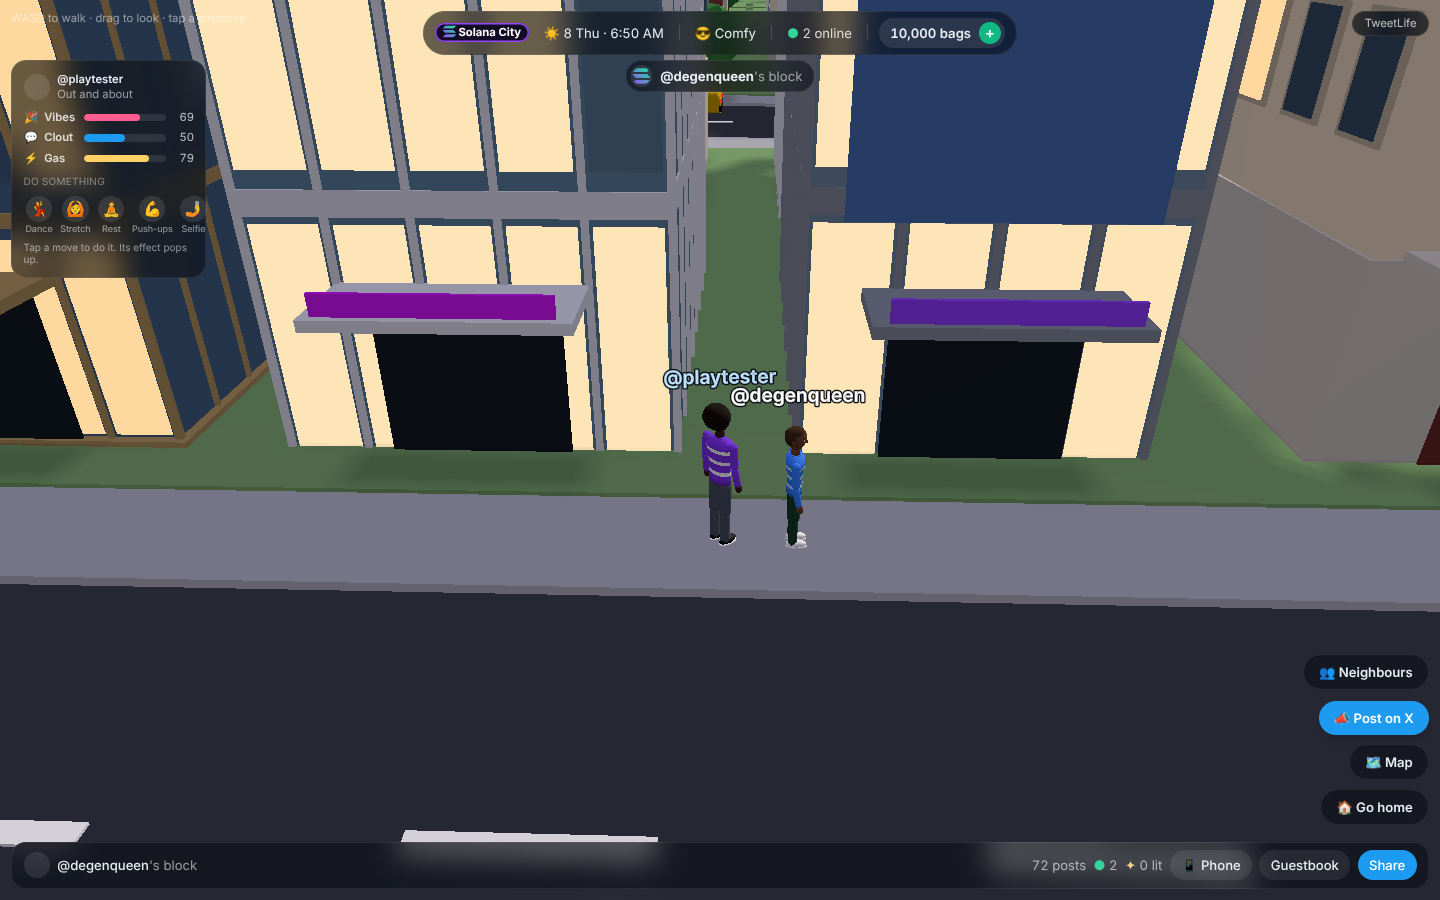
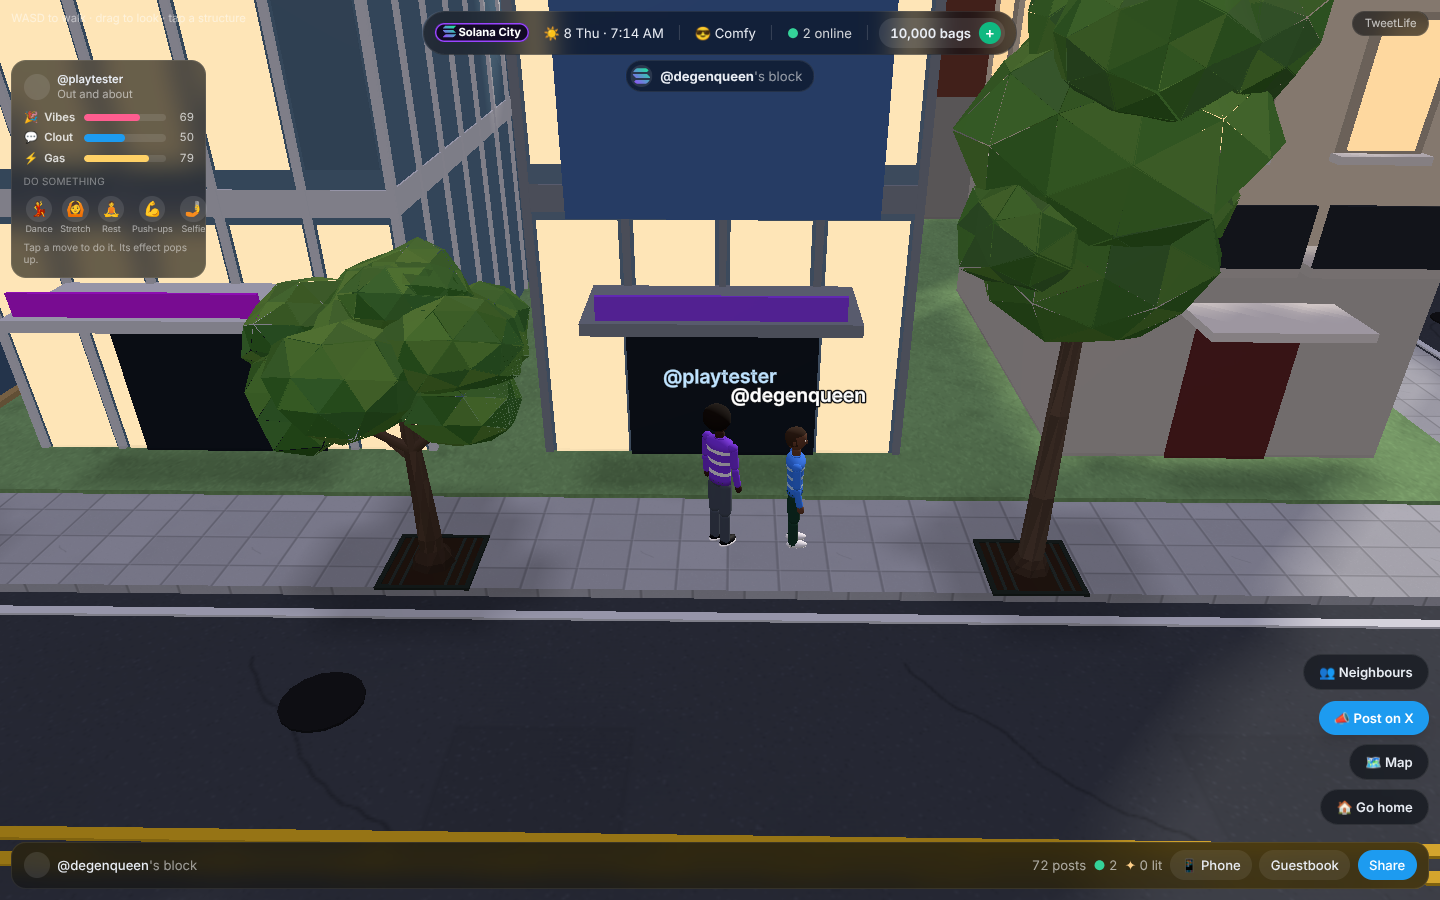
Block entrance half a lot off centre, between the new street trees
Claude-Session: https://claude.ai/code/session_01FccFwNsGXXzQUzpLdyWhA3

diff --git a/lib/world/country-map.ts b/lib/world/country-map.ts
@@ -1,4 +1,4 @@
-import { BLOCK_D, PITCH_X, PITCH_Z, SIDEWALK } from './geometry';
+import { BLOCK_D, LOT_W, PITCH_X, PITCH_Z, SIDEWALK } from './geometry';
 import type { CountryId } from './countries';
 
 // Each country is one shared map in one coordinate frame. The capital (venue ring, ring road, airport,
@@ -55,8 +55,9 @@ export function plotRect(slot: number): PlotRect {
 /** Where a visitor arrives at a plot: on the south sidewalk of its centre block, facing it. Shaped like a
  * Player spawn (a "structure" to stand in front of). */
 export function plotEntrance(slot: number) {
-  const r = plotRect(slot);
-  return { x: r.x, z: r.z + BLOCK_D / 2 - 1, rot: 0, depth: 0, front: { x: r.x, z: r.z + BLOCK_D / 2 + SIDEWALK / 2 } };
+  // half a lot off the centre line: in front of a door, between the street trees planted on lot boundaries
+  const r = plotRect(slot), x = r.x + LOT_W / 2;
+  return { x, z: r.z + BLOCK_D / 2 - 1, rot: 0, depth: 0, front: { x, z: r.z + BLOCK_D / 2 + SIDEWALK / 2 } };
 }
 
 /** Which plot slot covers (x, z), or null outside the grid of plots that exist (`count` slots). */
